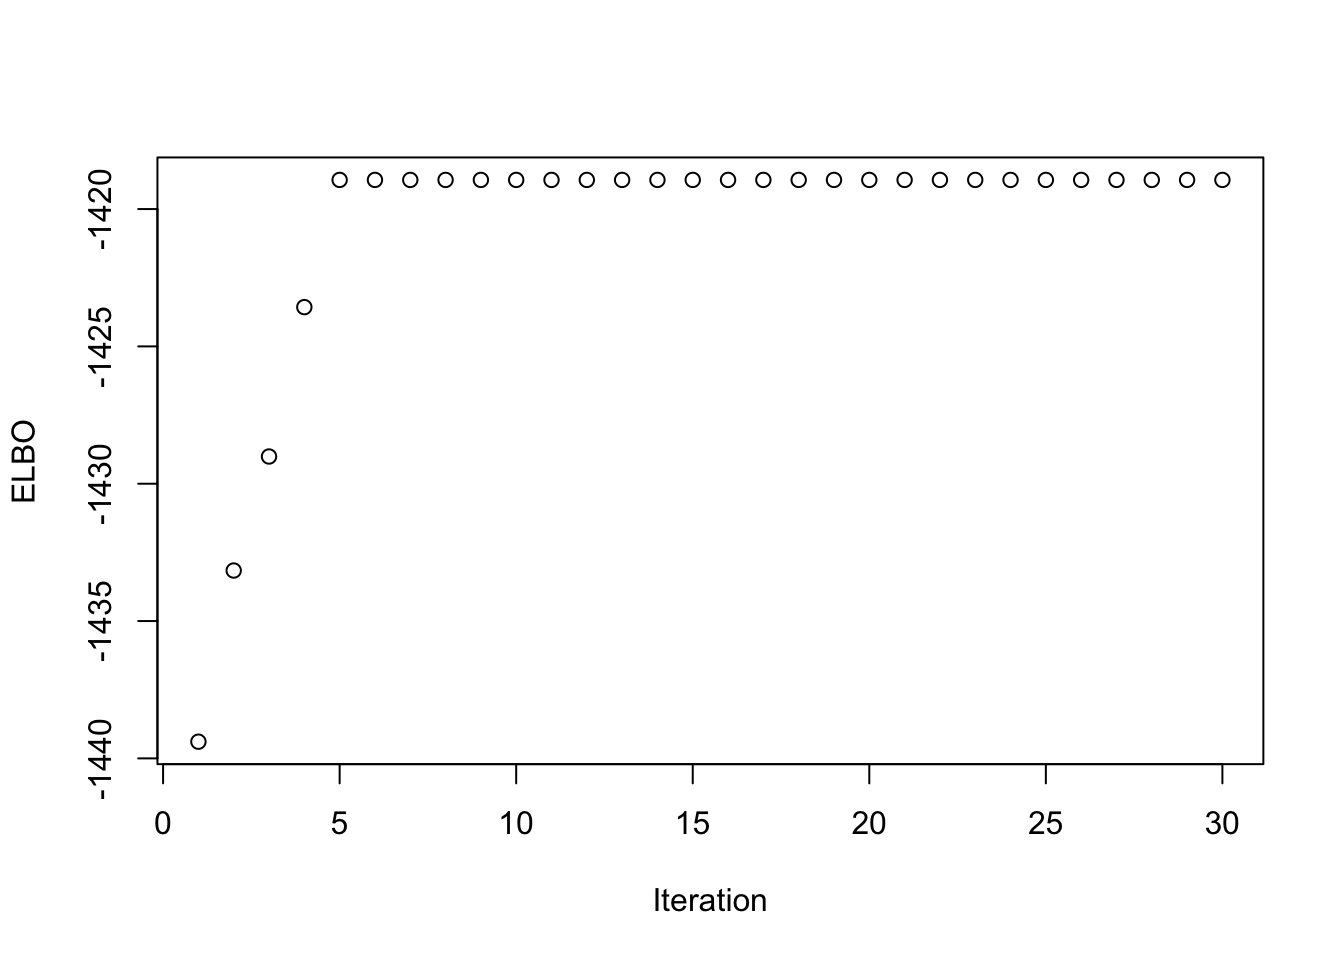
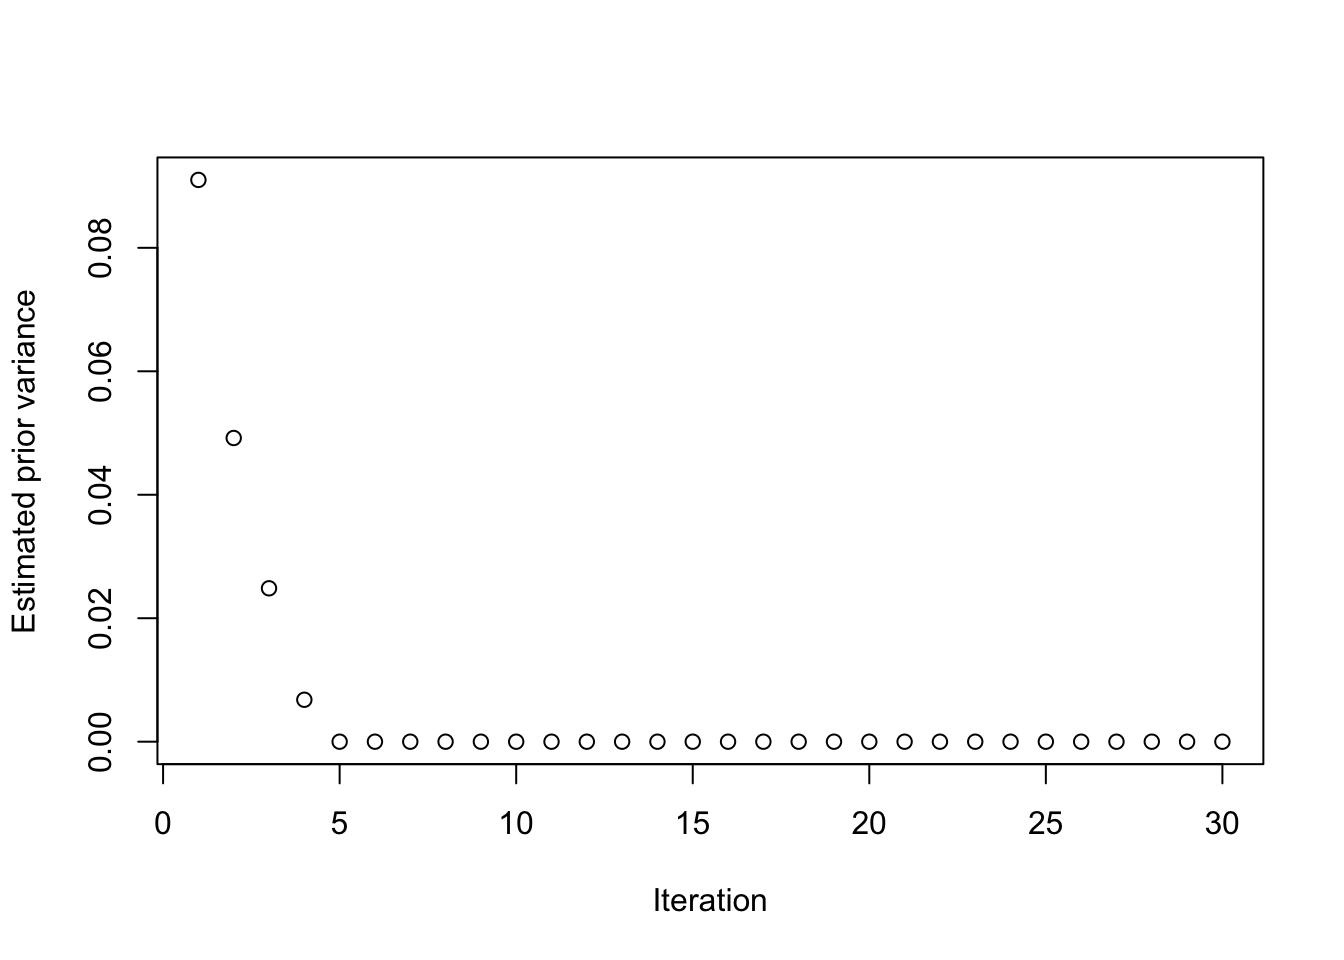
Build site.

diff --git a/docs/on_flashier_and_whitened_data.html b/docs/on_flashier_and_whitened_data.html
@@ -391,7 +391,7 @@ class="glyphicon glyphicon-ok text-success" aria-hidden="true"></span>
 <div class="tab-content">
 <div id="summary" class="tab-pane fade in active">
 <p>
-<strong>Last updated:</strong> 2026-05-27
+<strong>Last updated:</strong> 2026-06-04
 </p>
 <p>
 <strong>Checks:</strong> <span
@@ -522,15 +522,15 @@ project makes it easier to run your code on other machines.</p>
 <div class="panel panel-default">
 <div class="panel-heading">
 <p class="panel-title">
-<a data-toggle="collapse" data-parent="#workflowr-checks" href="#strongRepositoryversionstrongahrefhttpsgithubcomjunmingguanmisctreebe9c561b7369f82ecd8dee19e96d0e45b1df9853targetblankbe9c561a">
+<a data-toggle="collapse" data-parent="#workflowr-checks" href="#strongRepositoryversionstrongahrefhttpsgithubcomjunmingguanmisctreebd74196a555f6f1d89dd01f8e171adf059ab8242targetblankbd74196a">
 <span class="glyphicon glyphicon-ok text-success"
 aria-hidden="true"></span> <strong>Repository version:</strong>
-<a href="https://github.com/junmingguan/misc/tree/be9c561b7369f82ecd8dee19e96d0e45b1df9853" target="_blank">be9c561</a>
+<a href="https://github.com/junmingguan/misc/tree/bd74196a555f6f1d89dd01f8e171adf059ab8242" target="_blank">bd74196</a>
 </a>
 </p>
 </div>
 <div
[2 lines of base64/hex data omitted]
 class="panel-collapse collapse">
 <div class="panel-body">
 <p>
@@ -540,7 +540,7 @@ reproducibility.
 </p>
 <p>
 The results in this page were generated with repository version
-<a href="https://github.com/junmingguan/misc/tree/be9c561b7369f82ecd8dee19e96d0e45b1df9853" target="_blank">be9c561</a>.
+<a href="https://github.com/junmingguan/misc/tree/bd74196a555f6f1d89dd01f8e171adf059ab8242" target="_blank">bd74196</a>.
 See the <em>Past versions</em> tab to see a history of the changes made
 to the R Markdown and HTML files.
 </p>
@@ -560,16 +560,15 @@ Ignored files:
     Ignored:    .Rproj.user/
     Ignored:    .luarc.json
     Ignored:    _extensions/
+    Ignored:    analysis/.DS_Store
     Ignored:    analysis/exploratiion_normal_prior_on_factor.html
     Ignored:    analysis/presentation.html
-    Ignored:    analysis/presentation_files/
 
 Untracked files:
     Untracked:  Rplots.pdf
     Untracked:  analysis/draft.Rmd
     Untracked:  analysis/eb_ica_backup.Rmd
     Untracked:  analysis/ebica_math.md
-    Untracked:  analysis/exploratiion_normal_prior_on_factor_files/
     Untracked:  analysis/flashier_whitened_and_tree_example_tese.Rmd
     Untracked:  analysis/ica_vs_flash_r1_rad copy.Rmd
     Untracked:  analysis/ica_vs_flash_r1_rad.Rmd
@@ -579,7 +578,6 @@ Untracked files:
     Untracked:  analysis/presentation.qmd
     Untracked:  analysis/references.bib
     Untracked:  analysis/tree_example.Rmd
-    Untracked:  code/ebnm_normal_fixed_sd.R
     Untracked:  code/references.bib
 
 Unstaged changes:
@@ -589,8 +587,6 @@ Unstaged changes:
     Modified:   analysis/ica_vs_flash_r1_update_1.Rmd
     Modified:   analysis/ica_vs_flashier_r1_rad.Rmd
     Modified:   analysis/ica_with_noise.Rmd
-    Modified:   code/ebcd_functions.R
-    Modified:   code/ica_functions.R
 
 </code></pre>
 <p>
@@ -636,6 +632,40 @@ Message
 </tr>
 </thead>
 <tbody>
+<tr>
+<td>
+Rmd
+</td>
+<td>
+<a href="https://github.com/junmingguan/misc/blob/bd74196a555f6f1d89dd01f8e171adf059ab8242/analysis/on_flashier_and_whitened_data.Rmd" target="_blank">bd74196</a>
+</td>
+<td>
+junmingguan
+</td>
+<td>
[phone redacted]
+</td>
+<td>
+wflow_publish("analysis/on_flashier_and_whitened_data.Rmd")
+</td>
+</tr>
+<tr>
+<td>
+html
+</td>
+<td>
+<a href="https://rawcdn.githack.com/junmingguan/misc/b920fb25f164a3ddd0ce93da70acaa1adc4c1a36/docs/on_flashier_and_whitened_data.html" target="_blank">b920fb2</a>
+</td>
+<td>
+junmingguan
+</td>
+<td>
[phone redacted]
+</td>
+<td>
+Build site.
+</td>
+</tr>
 <tr>
 <td>
 Rmd
@@ -1177,6 +1207,7 @@ that</p>
 source(file.path(code_dir, &quot;ica_functions.R&quot;))
 source(file.path(code_dir, &quot;ebnm_rademacher.R&quot;))
 source(file.path(code_dir, &quot;ebnm_point_rademacher.R&quot;))
+source(file.path(code_dir, &quot;ebnm_normal_fixed_sd.R&quot;))
 source(file.path(code_dir, &quot;utils.R&quot;))
 
 
@@ -1195,7 +1226,7 @@ flash_x_rademacher &lt;- function(X, S_init, ebnm_fn = ebnm_normal, point_mass =
   }
   else {
     ebnm_source = ebnm_rademacher
-  }
+
   res &lt;- flash_init(X, var_type = var_type, S = S) |&gt;
       flash_factors_init(
         init = list(A_init, S_init),
@@ -1216,6 +1247,7 @@ flash_x_rademacher &lt;- function(X, S_init, ebnm_fn = ebnm_normal, point_mass =
   return(list(res=res, lambda_path = lambda_path, 
               elbo_path = elbo_path, resid_path = resid_path,
               z_prior_var_path = z_prior_var_path))
+  }
 }</code></pre>
 <pre class="r"><code>K=9
 p = 1000
@@ -1306,24 +1338,8 @@ the ELBO seems to stablized at <span
 class="math inline">\(c=0\)</span>.</p>
 <pre class="r"><code>sum(abs(fit_fixed$res$F_pm))</code></pre>
 <pre><code>[1] 1.082077e-09</code></pre>
-<pre class="r"><code>fit_fixed$lambda_path / n</code></pre>
-<pre><code> [1] 9.999999e+01 5.130826e+01 2.706666e+01 1.003379e+01 1.142070e-04
- [6] 1.170890e-20 1.170890e-20 1.170890e-20 1.170890e-20 1.170890e-20
-[11] 1.170890e-20 1.170890e-20 1.170890e-20 1.170890e-20 1.170890e-20
-[16] 1.170890e-20 1.170890e-20 1.170890e-20 1.170890e-20 1.170890e-20
-[21] 1.170890e-20 1.170890e-20 1.170890e-20 1.170890e-20 1.170890e-20
-[26] 1.170890e-20 1.170890e-20 1.170890e-20 1.170890e-20 1.170890e-20
-[31] 1.170890e-20</code></pre>
 <pre class="r"><code>sum(abs(fit_notfixed$res$F_pm))</code></pre>
 <pre><code>[1] 2.50714e-07</code></pre>
-<pre class="r"><code>fit_notfixed$lambda_path / n</code></pre>
-<pre><code> [1] 9.999999e+01 5.870948e+01 3.458381e+01 1.669552e+01 2.765550e+00
- [6] 6.285753e-16 6.285753e-16 6.285753e-16 6.285753e-16 6.285753e-16
-[11] 6.285753e-16 6.285753e-16 6.285753e-16 6.285753e-16 6.285753e-16
-[16] 6.285753e-16 6.285753e-16 6.285753e-16 6.285753e-16 6.285753e-16
-[21] 6.285753e-16 6.285753e-16 6.285753e-16 6.285753e-16 6.285753e-16
-[26] 6.285753e-16 6.285753e-16 6.285753e-16 6.285753e-16 6.285753e-16
-[31] 6.285753e-16</code></pre>
 <pre class="r"><code>plot(fit_fixed$z_prior_var_path[-1]^2, xlab = &#39;Iteration&#39;, ylab = &#39;Estimated prior variance&#39;)</code></pre>
 <p><img src="figure/on_flashier_and_whitened_data.Rmd/unnamed-chunk-4-1.png" alt="" width="672" style="display: block; margin: auto;" /></p>
 <p>
@@ -1413,7 +1429,7 @@ junmingguan
 </table>
 </div>
 </div>
-<pre class="r"><code>plot(fit_notfixed$z_prior_var_path[-1]^2, xlab = &#39;Iteration&#39;, ylab = &#39;Estimated prior variance&#39;)</code></pre>
+<pre class="r"><code>plot(fit_fixed$lambda_path / n, xlab = &#39;Iteration&#39;, ylab = &#39;lambda&#39;)</code></pre>
 <p><img src="figure/on_flashier_and_whitened_data.Rmd/unnamed-chunk-4-3.png" alt="" width="672" style="display: block; margin: auto;" /></p>
 <p>
 <button type="button" class="btn btn-default btn-xs btn-workflowr btn-workflowr-fig" data-toggle="collapse" data-target="#fig-unnamed-chunk-4-3">
@@ -1452,7 +1468,7 @@ junmingguan
 </table>
 </div>
 </div>
-<pre class="r"><code>plot(fit_notfixed$elbo_path[-1], xlab = &#39;Iteration&#39;, ylab = &#39;ELBO&#39;)</code></pre>
+<pre class="r"><code>plot(fit_notfixed$z_prior_var_path[-1]^2, xlab = &#39;Iteration&#39;, ylab = &#39;Estimated prior variance&#39;)</code></pre>
 <p><img src="figure/on_flashier_and_whitened_data.Rmd/unnamed-chunk-4-4.png" alt="" width="672" style="display: block; margin: auto;" /></p>
 <p>
 <button type="button" class="btn btn-default btn-xs btn-workflowr btn-workflowr-fig" data-toggle="collapse" data-target="#fig-unnamed-chunk-4-4">
@@ -1491,6 +1507,148 @@ junmingguan
 </table>
 </div>
 </div>
+<pre class="r"><code>plot(fit_notfixed$elbo_path[-1], xlab = &#39;Iteration&#39;, ylab = &#39;ELBO&#39;)</code></pre>
+<p><img src="figure/on_flashier_and_whitened_data.Rmd/unnamed-chunk-4-5.png" alt="" width="672" style="display: block; margin: auto;" /></p>
+<pre class="r"><code>plot(fit_notfixed$lambda_path / n, xlab = &#39;Iteration&#39;, ylab = &#39;lambda&#39;)</code></pre>
+<p><img src="figure/on_flashier_and_whitened_data.Rmd/unnamed-chunk-4-6.png" alt="" width="672" style="display: block; margin: auto;" /></p>
+<div id="unconstrained-z" class="section level3">
+<h3>Unconstrained <span class="math inline">\(z\)</span></h3>
+<p>Here, we examine the case where $z# is unconstrained and estimated
+via MLE.</p>
+<p>To do it in flashier, we can set and fix the normal prior variance to
+be very large. It seems that <span class="math inline">\(z=0\)</span> is
+still a fixed point for whitened data, but it takes a large number of
+iterations to converge to it.</p>
+<pre class="r"><code>ebnm_normal_fixed_prior_sd &lt;- make_ebnm_normal_fixed_sd(100000)
+fit_fixed_prior_sd = flash_x_rademacher(X1, L[,1], S=NULL, ebnm_fn = ebnm_normal_fixed_prior_sd, maxiter = 5000)</code></pre>
+<pre><code>  --Estimate of factor 1 is numerically zero!</code></pre>
+<pre><code>  --Estimate of factor 1 is numerically zero!</code></pre>
+<pre class="r"><code>sum(abs(fit_fixed_prior_sd$res$F_pm))</code></pre>
+<pre><code>[1] 3.700179e-14</code></pre>
+<pre class="r"><code>plot(fit_fixed_prior_sd$lambda_path / n, xlab = &#39;Iteration&#39;, ylab = &#39;lambda&#39;)</code></pre>
+<p><img src="figure/on_flashier_and_whitened_data.Rmd/unnamed-chunk-5-1.png" alt="" width="672" style="display: block; margin: auto;" /></p>
+<pre class="r"><code>plot(fit_fixed_prior_sd$elbo_path[-1], xlab = &#39;Iteration&#39;, ylab = &#39;ELBO&#39;)</code></pre>
+<p><img src="figure/on_flashier_and_whitened_data.Rmd/unnamed-chunk-5-2.png" alt="" width="672" style="display: block; margin: auto;" /></p>
+<pre class="r"><code>plot(fit_fixed_prior_sd$resid_path, xlab = &#39;Iteration&#39;, ylab = &#39;Residual variance&#39;)</code></pre>
+<p><img src="figure/on_flashier_and_whitened_data.Rmd/unnamed-chunk-5-3.png" alt="" width="672" style="display: block; margin: auto;" /></p>
+<p>A better way is to fit thr true MLE. Without constraint, convergence
+to <span class="math inline">\(z=0\)</span> is even slower, although the
+ELBO stablizes very quickly.</p>
+<p>Is <span class="math inline">\(z=0\)</span> maximizing the ELBO? If
+seems that if we keep going regardless of the ELBO, we will reach <span
+class="math inline">\(z=0\)</span> eventually, but in practice we might
+have stopped because ELBO won’t change much.</p>
+<pre class="r"><code>ebica_fit = ebica_rank_one_unconstrained(X1, symmetric_rademacher = TRUE, max_iter = 50000)
+max(apply(cor(L, t(X1) %*% ebica_fit$W), MARGIN = 1, abs))</code></pre>
+<pre><code>[1] 0.9999999</code></pre>
+<pre class="r"><code>sum(abs(ebica_fit$S_plus))</code></pre>
+<pre><code>[1] 0.6538502</code></pre>
+<pre class="r"><code>ebica_fit$S_plus</code></pre>
+<pre><code>               [,1]
+  [1,] -0.006540210
+  [2,]  0.006539295
+  [3,] -0.006543333
+  [4,] -0.006536314
+  [5,] -0.006539850
+  [6,] -0.006536320
+  [7,] -0.006534207
+  [8,] -0.006540748
+  [9,]  0.006539897
+ [10,]  0.006536509
+ [11,] -0.006539108
+ [12,]  0.006540184
+ [13,] -0.006535329
+ [14,]  0.006540797
+ [15,]  0.006538635
+ [16,]  0.006537083
+ [17,] -0.006541133
+ [18,] -0.006533797
+ [19,] -0.006534499
+ [20,] -0.006537261
+ [21,] -0.006544368
+ [22,] -0.006535983
+ [23,] -0.006536526
+ [24,]  0.006539993
+ [25,] -0.006539054
+ [26,] -0.006541175
+ [27,] -0.006535357
+ [28,] -0.006540011
+ [29,] -0.006535864
+ [30,] -0.006539946
+ [31,] -0.006540822
+ [32,]  0.006538164
+ [33,] -0.006542694
+ [34,] -0.006538248
+ [35,] -0.006540907
+ [36,] -0.006540653
+ [37,]  0.006539431
+ [38,] -0.006544519
+ [39,]  0.006537084
+ [40,]  0.006537872
+ [41,] -0.006536764
+ [42,] -0.006538660
+ [43,] -0.006543306
+ [44,] -0.006539155
+ [45,] -0.006537736
+ [46,] -0.006535839
+ [47,] -0.006538835
+ [48,] -0.006538827
+ [49,] -0.006538037
+ [50,]  0.006541272
+ [51,] -0.006538101
+ [52,] -0.006539616
+ [53,] -0.006539615
+ [54,] -0.006538864
+ [55,] -0.006538362
+ [56,] -0.006537458
+ [57,] -0.006540026
+ [58,] -0.006539000
+ [59,] -0.006537442
+ [60,] -0.006538905
+ [61,] -0.006538090
+ [62,] -0.006534173
+ [63,] -0.006539599
+ [64,] -0.006534852
+ [65,]  0.006540270
+ [66,] -0.006536615
+ [67,]  0.006538018
+ [68,] -0.006541075
+ [69,] -0.006537113
+ [70,] -0.006536440
+ [71,] -0.006540858
+ [72,] -0.006540547
+ [73,]  0.006538123
+ [74,] -0.006540487
+ [75,]  0.006534697
+ [76,] -0.006538273
+ [77,] -0.006538663
+ [78,] -0.006537639
+ [79,]  0.006537523
+ [80,] -0.006542303
+ [81,] -0.006536210
+ [82,] -0.006538213
+ [83,] -0.006536080
+ [84,] -0.006535705
+ [85,] -0.006539475
+ [86,] -0.006536929
+ [87,] -0.006536883
+ [88,] -0.006540218
+ [89,] -0.006538018
+ [90,] -0.006539909
+ [91,] -0.006535354
+ [92,]  0.006538698
+ [93,] -0.006537638
+ [94,] -0.006539503
+ [95,] -0.006535870
+ [96,] -0.006537499
+ [97,] -0.006542384
+ [98,] -0.006533801
+ [99,]  0.006536678
+[100,] -0.006540773</code></pre>
+<pre class="r"><code>plot(ebica_fit$obj, xlab = &#39;Iteration&#39;, ylab = &#39;ELBO&#39;)</code></pre>
+<p><img src="figure/on_flashier_and_whitened_data.Rmd/unnamed-chunk-6-1.png" alt="" width="672" style="display: block; margin: auto;" /></p>
+<pre class="r"><code>plot(ebica_fit$residual_variance_path, xlab = &#39;Iteration&#39;, ylab = &#39;Residual variance&#39;)</code></pre>
+<p><img src="figure/on_flashier_and_whitened_data.Rmd/unnamed-chunk-6-2.png" alt="" width="672" style="display: block; margin: auto;" /></p>
 <br>
 <p>
 <button type="button" class="btn btn-default btn-workflowr btn-workflowr-sessioninfo" data-toggle="collapse" data-target="#workflowr-sessioninfo" style="display: block;">
@@ -1511,7 +1669,7 @@ LAPACK: /Library/Frameworks/R.framework/Versions/4.3-arm64/Resources/lib/libRlap
 locale:
 [1] en_US.UTF-8/en_US.UTF-8/en_US.UTF-8/C/en_US.UTF-8/en_US.UTF-8
 
-time zone: America/Chicago
+time zone: America/Los_Angeles
 tzcode source: internal
 
 attached base packages:
@@ -1551,6 +1709,7 @@ loaded via a namespace (and not attached):
 [82] httpuv_1.6.17         bslib_0.10.0          Rcpp_1.1.0           
 [85] deconvolveR_1.2-1     whisker_0.4.1         xfun_0.57            
 [88] fs_1.6.6              getPass_0.2-4         pkgconfig_2.0.3      </code></pre>
+</div>
 </div>
 </div>
 </div>